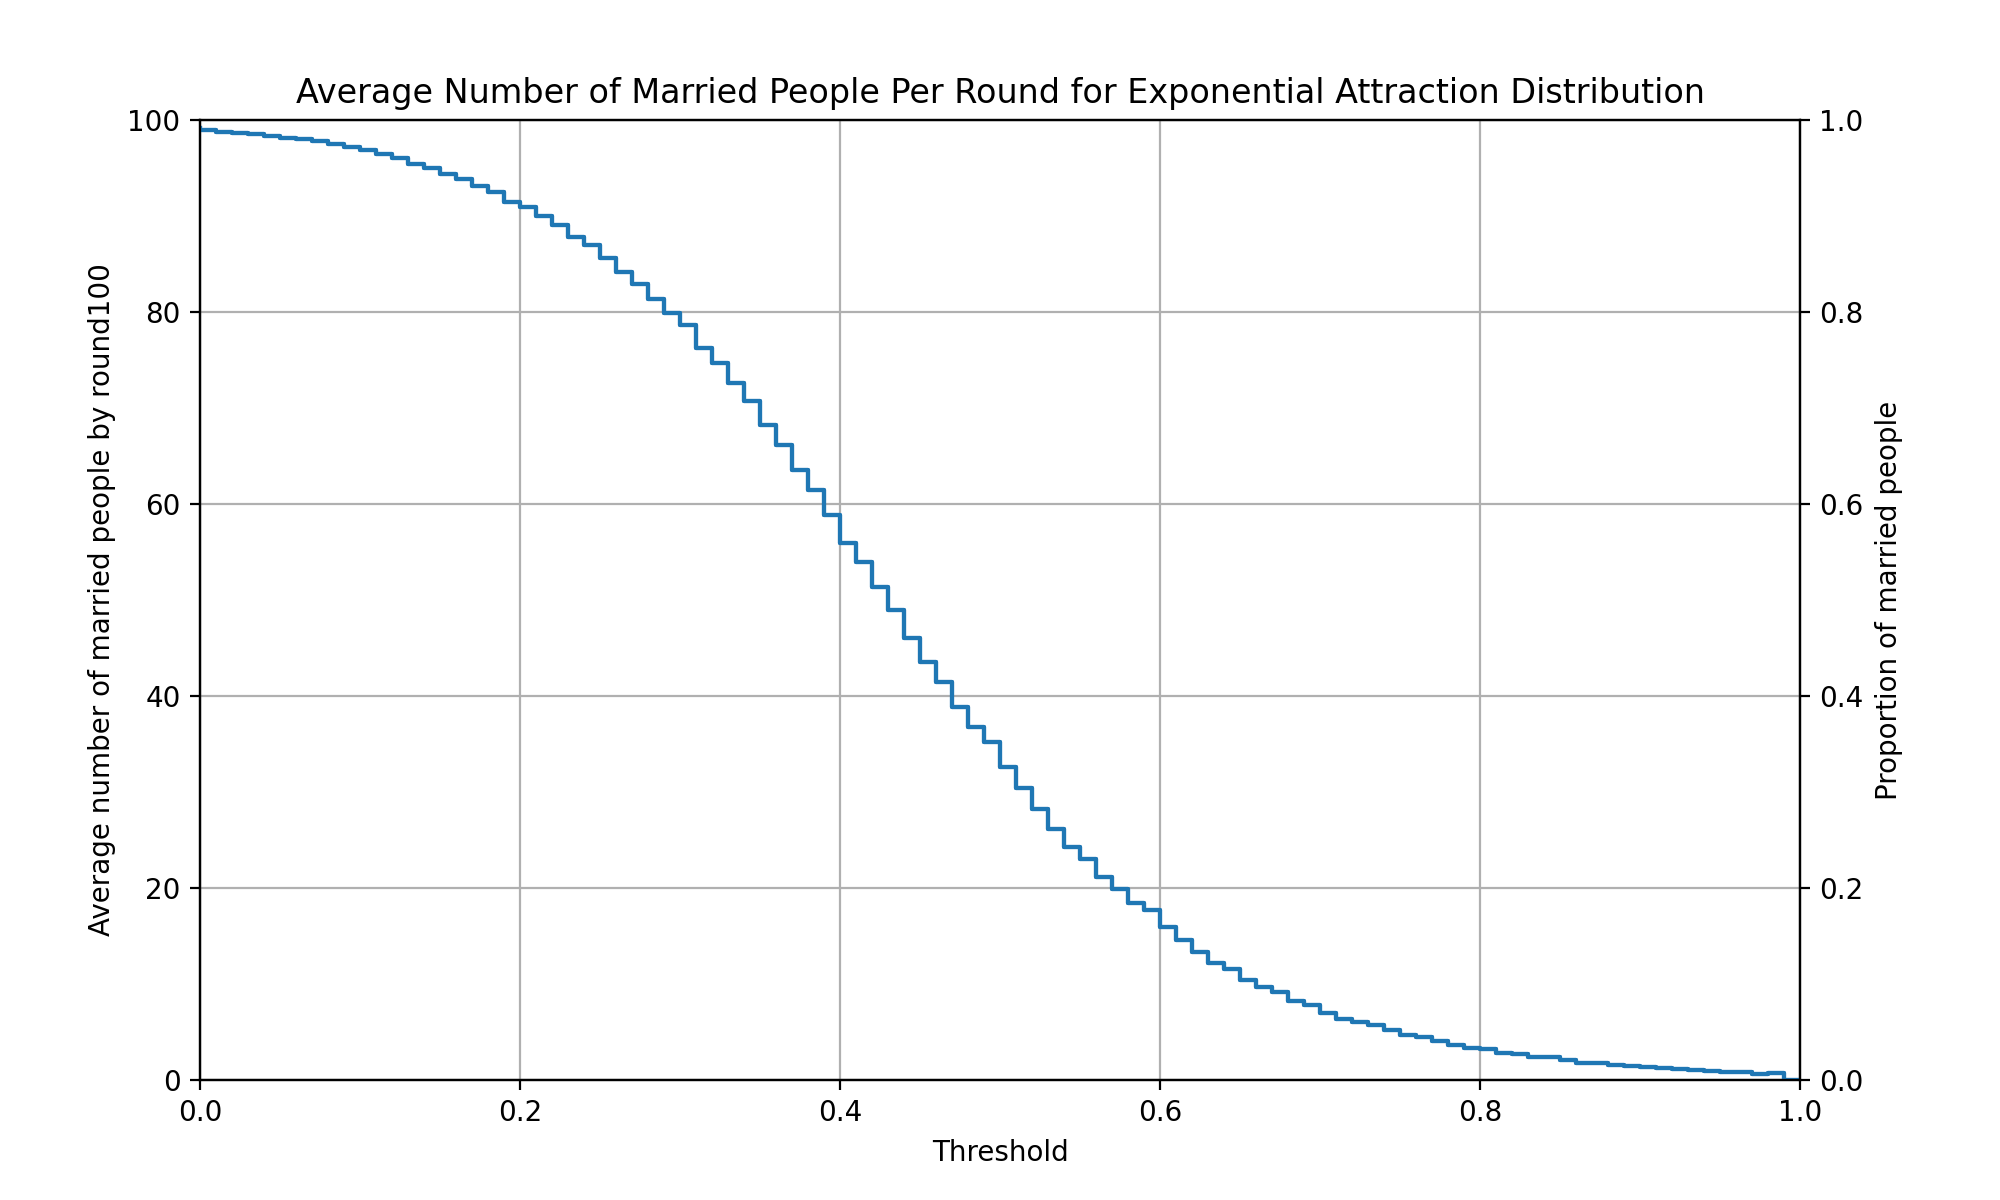
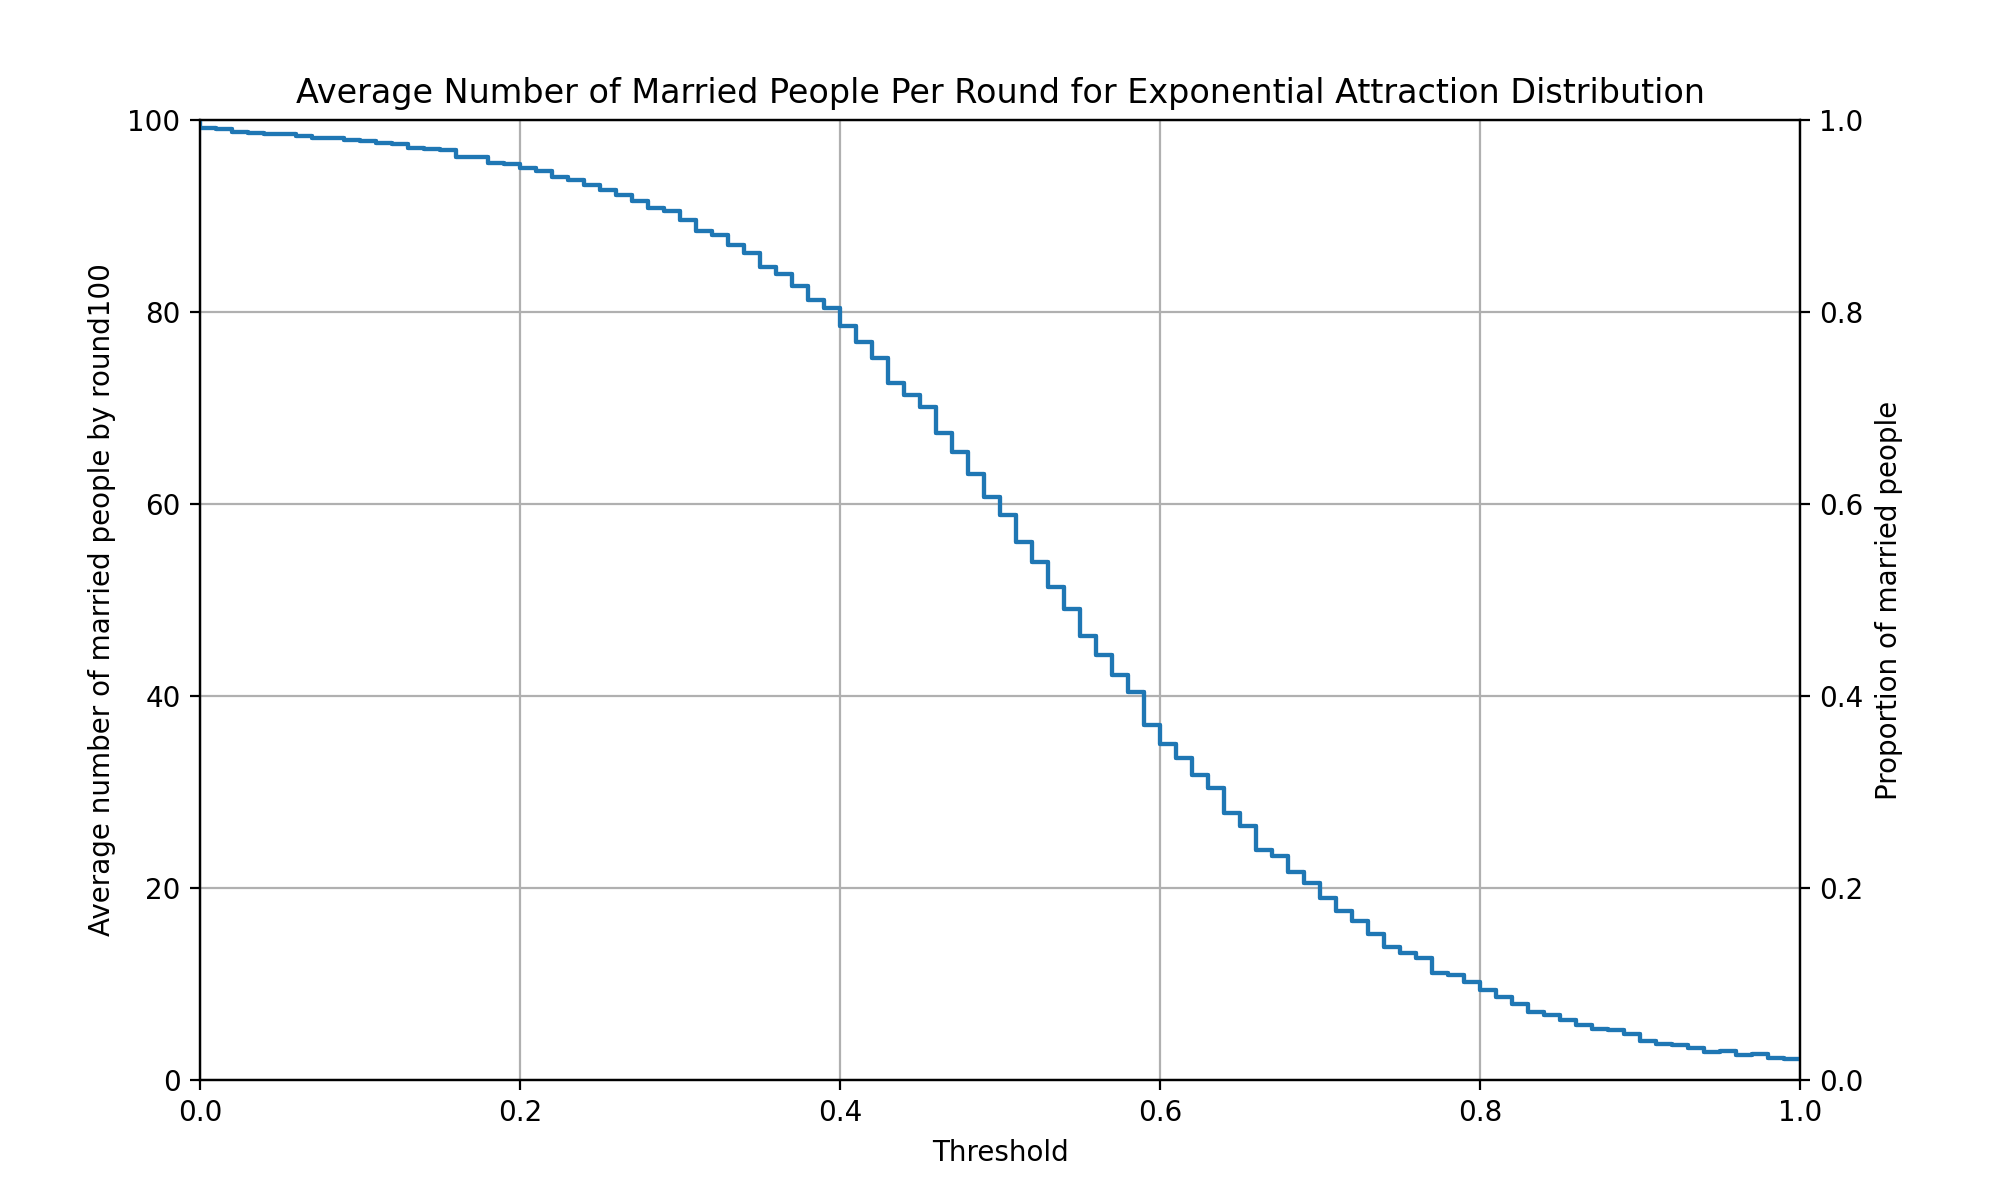
changed threshold to define quantile

diff --git a/src/main.py b/src/main.py
@@ -3,38 +3,57 @@ import random
 import numpy as np
 import matplotlib.pyplot as plt
 import pandas as pd
+import scipy
 
 # Compute the total error for each threshold
-def run_simulation(attractionDist, num_population, num_rounds, threshold, plot):
+def run_simulation(attractionDist, num_population, num_rounds, threshold, plot = False):
     # initializations
     attraction = []
     lovers = []
     married = set()
-    THRESHOLD = threshold
     POPULATION = num_population
     ROUNDS = num_rounds
-
+    THRESHOLD = threshold
+    
     for _ in range(POPULATION):
         if attractionDist == "Uniform":
             # Sample a random attraction distribution for each person
             random_dist = np.random.uniform(0, 1, POPULATION)
+            
+            # Scale the attraction distribution to be between 0 and 1
+            # random_dist = (random_dist - np.min(random_dist)) / (np.max(random_dist) - np.min(random_dist))
+            
             # Append the attraction distribution to the list of attraction distributions
             attraction.append(random_dist)
+            
+            # Set the threshold (converted from % to cdf)
+            THRESHOLD = scipy.stats.uniform.ppf(threshold, 0, 1) # Unnecessary, since threshold is already in cdf
+            
         elif attractionDist == "Normal":
             # Sample a random attraction distribution for each person
-            random_dist = np.random.normal(0.5, 0.1, POPULATION)
-            # Scale the attraction to be between 0 and 1
-            random_dist = (random_dist - min(random_dist)) / (max(random_dist) - min(random_dist))
+            random_dist = np.random.normal(0, 1, POPULATION)
+            
+            # Scale the attraction distribution to be between 0 and 1
+            # random_dist = (random_dist - np.min(random_dist)) / (np.max(random_dist) - np.min(random_dist))
+            
             # Append the attraction distribution to the list of attraction distributions
             attraction.append(random_dist)
-            # Scale the attraction to be between 0 and 1
+            
+            # Set the threshold (converted from % to cdf)
+            THRESHOLD = scipy.stats.norm.ppf(threshold, 0, 1)
+            
         elif attractionDist == "Exponential":
             # Sample a random attraction distribution for each person
-            random_dist = np.random.exponential(0.5, POPULATION)
-            # Scale the attraction to be between 0 and 1
-            random_dist = (random_dist - min(random_dist)) / (max(random_dist) - min(random_dist))
+            random_dist = np.random.exponential(.25, POPULATION)
+            
+            # Scale the attraction distribution to be between 0 and 1
+            # random_dist = random_dist / max(random_dist)
+            
             # Append the attraction distribution to the list of attraction distributions
             attraction.append(random_dist)
+            
+            # Set the threshold (converted from % to cdf)
+            THRESHOLD = scipy.stats.expon.ppf(threshold, scale = 1)
             
     for i in range(POPULATION):
         lover_attraction = attraction[i].copy()
@@ -78,7 +97,7 @@ def run_simulation(attractionDist, num_population, num_rounds, threshold, plot):
         num_married.append(len(married)) # Add number of married people to array
         
     if (plot):
-        plot_simulation(num_married, ROUNDS, POPULATION, attractionDist, THRESHOLD)
+        plot_simulation(num_married, ROUNDS, POPULATION, attractionDist, threshold)
     
     # print(num_married)
     # print("Number of single people: " + str(len(singles)))
@@ -117,7 +136,8 @@ def plot_simulation(num_married, ROUNDS, POPULATION, attractionDist, threshold):
     fig.savefig(file_name)
     plt.close()
 
-# run_simulation("Uniform", 100, 100, 0.8, True)
+# run_simulation("Exponential", 100, 100, .75, True)
+run_simulation("Uniform", 100, 100, .75, True)
 
 # Compute the average number of married people for each threshold
 def aggregate_simulations(attractionDist, num_population, num_rounds, num_simulations, plot, read_csv = False, write_csv = False):
@@ -198,7 +218,7 @@ def plot_agg_simulations(avg_num_married, thresholds, num_rounds, attractionDist
     plt.close()
    
 # Compute and plot the total error for each threshold
-def compute_total_error(avg_num_married, thresholds, num_population, attractionDist, threshold_weight = 1, married_prop_weight = 1):
+def compute_total_error(avg_num_married, thresholds, num_population, attractionDist, threshold_weight = 1, married_prop_weight = 1, plot = True):
     # Instantiate an array to store the total error for each threshold
     total_error = []
     
@@ -209,6 +229,7 @@ def compute_total_error(avg_num_married, thresholds, num_population, attractionD
         
         # Proportion of people married at threshold
         married_prop = avg_num_married[i] / num_population
+        
         # Married proportion error
         married_prop_error = 1 - married_prop
         
@@ -224,13 +245,20 @@ def compute_total_error(avg_num_married, thresholds, num_population, attractionD
     # Get maximum total error
     max_total_error = max(total_error)
     
+    if (plot == True):
+        plot_total_error(total_error, thresholds, min_total_error, min_total_error_threshold, max_total_error, max_total_error)
+        
+    return total_error
+
+def plot_total_error(total_error, thresholds, min_total_error, min_total_error_threshold, max_total_error, attractionDist):
+    # Plot the total error
+        
     # Set ylim
     if (max_total_error > 1):
         ylim = max_total_error + .05
     else:
         ylim = 1
     
-    # Plot the total error
     x = thresholds
     fig, ax1 = plt.subplots(figsize=(10, 6), dpi=200)
     ylab = "Total error"
@@ -264,7 +292,5 @@ def compute_total_error(avg_num_married, thresholds, num_population, attractionD
     file_name = "./src/figures/total_error_" + attractionDist + ".png"
     fig.savefig(file_name)
     plt.close()
-        
-    return total_error
 
-aggregate_simulations("Normal", num_population = 100, num_rounds= 100, num_simulations= 25, plot = True, read_csv = True, write_csv = False)
+# aggregate_simulations("Exponential", num_population = 100, num_rounds = 100, num_simulations = 250, plot = True, read_csv = False, write_csv = False)
